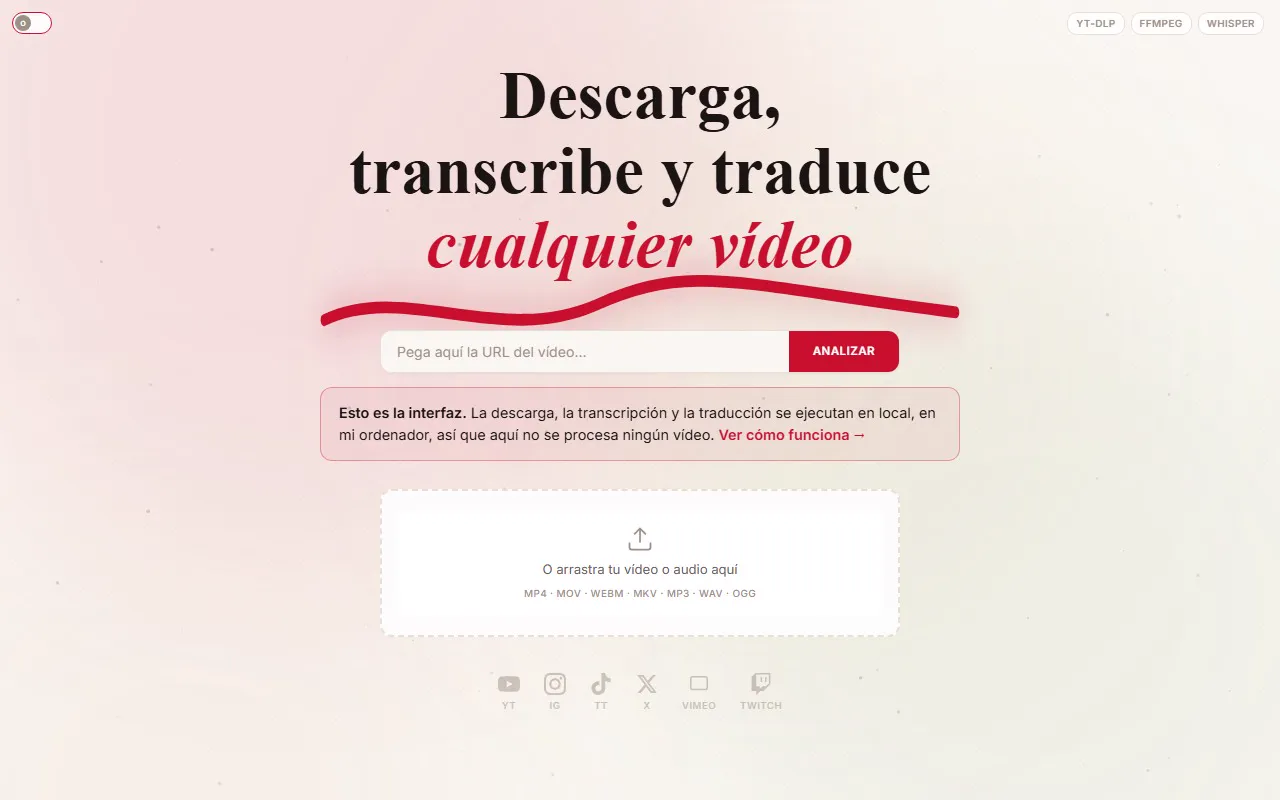
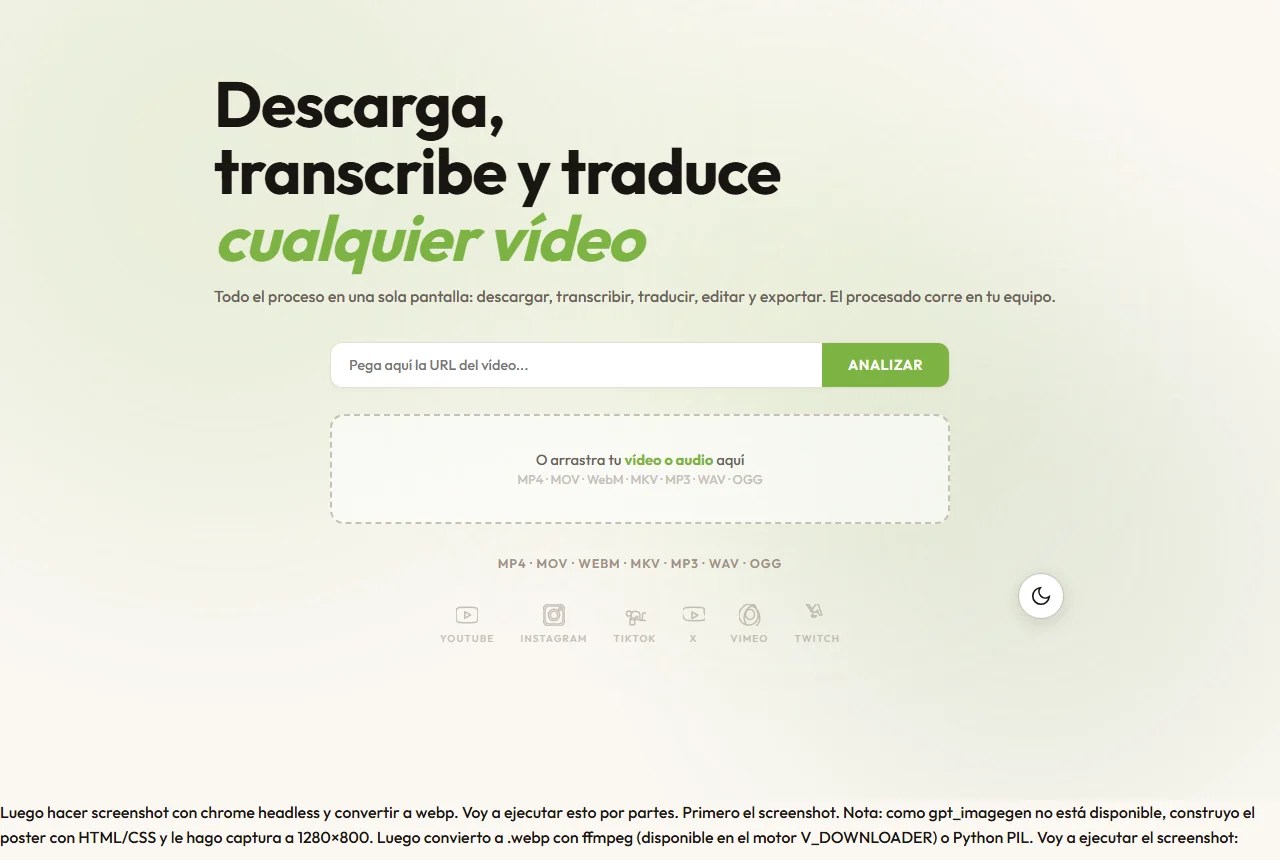
feat(V_DOWNLOADER): paleta lima y Outfit en portfolio + caso; badges con spinner/tic-cruz y auto-reintento de motor en la app
- portfolio #projects card V_DOWNLOADER: lima #7cb342, tipografía Outfit, gradiente del visual lima, data-color actualizado
- casos/v-downloader: --accent lima, Outfit, poster vdl-inicio-poster.webp regenerado (look lima), botón 'Abrir la web' en vez de 'Demo visual'
- app V_DownLoadSUB: badges de estado con spinner (cargando) / tic (ok) / cruz (fail), reintento automático cada 8s sin mencionar launch.bat, botón 'Siguiente paso'

diff --git a/projects/V_DownLoadSUB/static/script.js b/projects/V_DownLoadSUB/static/script.js
@@ -56,6 +56,9 @@ window.addEventListener("DOMContentLoaded", function () {
   } catch (e) {
     console.error("Init error:", e);
   }
+  ["badge-ytdlp","badge-ffmpeg","badge-whisper"].forEach(function(id){
+    setBadge(id, "cargando");
+  });
   showStage("stage-upload");
   document.getElementById("urlInput").addEventListener("keydown", function (e) {
     if (e.key === "Enter") fetchInfo();
@@ -112,6 +115,8 @@ var API_CANDIDATOS = (function () {
 })();
 var API_URL = API_CANDIDATOS[0];
 var SIN_SERVIDOR = true;
+var REINTENTO_MS = 8000;
+var reintentoTimer = null;
 
 function fijarControles(activos) {
   var urlInput = document.getElementById("urlInput");
@@ -127,7 +132,7 @@ function fijarControles(activos) {
   if (fetchBtn) {
     fetchBtn.disabled = !activos;
     fetchBtn.classList.toggle("demo-only", !activos);
-    fetchBtn.textContent = activos ? "Analizar" : "Demo visual";
+    fetchBtn.textContent = activos ? "Analizar" : "Siguiente paso";
     fetchBtn.title = activos ? "" : "El procesamiento no está disponible en esta página pública";
   }
   if (fileInput) fileInput.disabled = !activos;
@@ -143,7 +148,7 @@ function avisoDemo(resaltar) {
     aviso.id = "avisoDemo";
     aviso.className = "aviso-demo";
     aviso.setAttribute("role", "status");
-     aviso.innerHTML = "<strong>Motor local no conectado.</strong> Analizar enlaces y procesar archivos necesita el motor de V_DOWNLOADER (Flask + yt-dlp + FFmpeg) en tu equipo. Arranca <code>launch.bat</code> y vuelve a intentarlo." +
+     aviso.innerHTML = "<strong>Motor local no conectado.</strong> Analizar enlaces y procesar archivos necesita el motor de V_DOWNLOADER (Flask + yt-dlp + FFmpeg) en tu equipo. Hace falta el motor de V_DOWNLOADER en tu equipo. Lo intento de nuevo automáticamente cada 8 s; también puedes reintentar ahora:" +
       "<div class=\"aviso-acciones\"><button type=\"button\" class=\"aviso-btn\" id=\"reintentarMotor\">Reintentar conexión</button><a href=\"../../index.html#contact\">Pedir una demo funcional →</a></div>";
     var wrap = document.getElementById("urlWrap");
     if (wrap && wrap.parentNode) wrap.parentNode.insertBefore(aviso, wrap.nextSibling);
@@ -156,12 +161,15 @@ function marcarSinServidor() {
   SIN_SERVIDOR = true;
   fijarControles(false);
   ["badge-ytdlp","badge-ffmpeg","badge-whisper"].forEach(function(id){
-    document.querySelectorAll("#" + id).forEach(function(el){
-      el.classList.add("local");
-      el.title = "Funciona en local, en mi ordenador";
-    });
+    setBadge(id, "fail");
   });
   avisoDemo(false);
+  if (!reintentoTimer) {
+    reintentoTimer = setInterval(function () {
+      if (!SIN_SERVIDOR) { clearInterval(reintentoTimer); reintentoTimer = null; return; }
+      checkStatus();
+    }, REINTENTO_MS);
+  }
 }
 
 function marcarConMotor(status) {
@@ -180,6 +188,10 @@ function marcarConMotor(status) {
 }
 
 async function checkStatus() {
+  ["badge-ytdlp","badge-ffmpeg","badge-whisper"].forEach(function(id){
+    setBadge(id, "cargando");
+  });
+  var conectado = false;
   for (var i = 0; i < API_CANDIDATOS.length; i++) {
     try {
       var r = await fetch(API_CANDIDATOS[i] + "/api/status", { signal: AbortSignal.timeout(2500) });
@@ -187,19 +199,31 @@ async function checkStatus() {
       var s = await r.json();
       API_URL = API_CANDIDATOS[i];
       marcarConMotor(s);
+      conectado = true;
       loadDownloads();
       return;
     } catch (e) { /* siguiente candidato */ }
   }
-  marcarSinServidor();
+  if (!conectado) marcarSinServidor();
 }
 
-function setBadge(id, ok) {
+function setBadge(id, estado) {
+  // estado: "cargando" | "ok" | "fail"
   var els = document.querySelectorAll("#" + id);
   els.forEach(function (el) {
-    el.classList.toggle("ok", ok);
-    el.classList.toggle("fail", !ok);
-    el.textContent = id.replace("badge-", "") + (ok ? " ✓" : " ✗");
+    el.classList.remove("cargando", "ok", "fail");
+    el.classList.add(estado);
+    var base = id.replace("badge-", "");
+    if (estado === "cargando") {
+      el.innerHTML = '<span class="badge-spin"></span>' + base;
+      el.title = "Verificando…";
+    } else if (estado === "ok") {
+      el.textContent = base + " ✓";
+      el.title = "Disponible";
+    } else {
+      el.textContent = base + " ✗";
+      el.title = "No disponible";
+    }
   });
 }
 

diff --git a/index.html b/index.html
@@ -17,7 +17,7 @@
 <link rel="icon" type="image/svg+xml" href="./assets/favicon.svg">
 <link rel="icon" type="image/png" sizes="48x48" href="./assets/favicon-48.png">
 <link rel="preconnect" href="https://fonts.googleapis.com"><link rel="preconnect" href="https://fonts.gstatic.com" crossorigin>
-<link href="https://fonts.googleapis.com/css2?family=Bebas+Neue&family=Bruno+Ace+SC&family=Inter:wght@300;400;500;600;700;800&family=Playfair+Display:ital,wght@0,800;1,600&family=Space+Grotesk:wght@400;500;600;700&display=swap" rel="stylesheet">
+<link href="https://fonts.googleapis.com/css2?family=Bebas+Neue&family=Bruno+Ace+SC&family=Inter:wght@300;400;500;600;700;800&family=Outfit:wght@500;600;700&family=Playfair+Display:ital,wght@0,800;1,600&family=Space+Grotesk:wght@400;500;600;700&display=swap" rel="stylesheet">
 <link rel="preload" as="image" href="./assets/hero-silueta.webp" type="image/webp">
 <link rel="preload" as="image" href="./assets/hero-fondo.webp" type="image/webp">
 <style>
@@ -274,9 +274,9 @@ body.menu-open{overflow:hidden}
 .pj-ares:hover h2,.pj-ares.is-hovered h2,.pj-ares:hover .tag,.pj-ares.is-hovered .tag,.pj-ares:hover .desc,.pj-ares.is-hovered .desc{color:#86BBD8}
 .pj-ares .project-visual-inner{background:linear-gradient(135deg,#151d25,#2F4858 45%,#33658A 80%,#86BBD8)}
 
-.pj-vdownloader h2{font-family:'VDisplay','Playfair Display',serif;font-weight:400}
-.pj-vdownloader:hover h2,.pj-vdownloader.is-hovered h2,.pj-vdownloader:hover .tag,.pj-vdownloader.is-hovered .tag,.pj-vdownloader:hover .desc,.pj-vdownloader.is-hovered .desc{color:#c8102e}
-.pj-vdownloader .project-visual-inner{background:linear-gradient(135deg,#5e0b15,#c8102e 60%,#f2c4c9)}
+.pj-vdownloader h2{font-family:'Outfit',system-ui,sans-serif;font-weight:600}
+.pj-vdownloader:hover h2,.pj-vdownloader.is-hovered h2,.pj-vdownloader:hover .tag,.pj-vdownloader.is-hovered .tag,.pj-vdownloader:hover .desc,.pj-vdownloader.is-hovered .desc{color:#7cb342}
+.pj-vdownloader .project-visual-inner{background:linear-gradient(135deg,#1b2a15,#7cb342 60%,#dcf7cc)}
 
 /* ═══ CONTACT ═══ */
 .contact{padding:clamp(90px,12vw,170px) 0 clamp(60px,7vw,100px);display:grid;grid-template-columns:minmax(0,1.3fr) minmax(0,1fr);gap:clamp(36px,6vw,110px);align-items:end}
@@ -494,7 +494,7 @@ footer a{color:#111}
 
       </div>
       <div class="project-visual"><div class="project-visual-inner"><svg viewBox="0 0 24 24" fill="none" stroke="#0a0d12" stroke-width="1"><path d="M4 20h16"/><path d="M6 16l6-12 6 12"/><path d="M8 12h8"/></svg></div></div>
-    </a><a class="project-card pj-vdownloader" href="./casos/v-downloader/" data-pj="V_DOWNLOADER" data-font="VDisplay" data-color="#c8102e">
+    </a><a class="project-card pj-vdownloader" href="./casos/v-downloader/" data-pj="V_DOWNLOADER" data-font="Outfit" data-color="#7cb342">
       <div class="project-info">
         <span class="num">04</span><span class="tag">Vídeo + IA · En desarrollo</span><h2>V_DOWNLOADER</h2>
         <p class="desc">Descarga, transcribe y traduce vídeos en local a 16 idiomas. La web pública muestra la interfaz; el procesamiento no está conectado.</p>

diff --git a/casos/v-downloader/index.html b/casos/v-downloader/index.html
@@ -19,9 +19,9 @@
 <link href="https://fonts.googleapis.com/css2?family=Inter:wght@300;400;500;600&family=Space+Grotesk:wght@500;700&display=swap" rel="stylesheet">
 <link rel="stylesheet" href="../caso.css">
 <link href="https://fonts.googleapis.com/css2?family=Bebas+Neue&family=Bruno+Ace+SC&display=swap" rel="stylesheet">
-<style>@font-face{font-family:'VDisplay';src:url('../../projects/V_DownLoadSUB/static/fonts/d9ba559e4ba4.woff2') format('woff2');font-display:swap}</style>
+<link href="https://fonts.googleapis.com/css2?family=Outfit:wght@500;600;700&display=swap" rel="stylesheet">
 </head>
-<body style="--accent:#c8102e;--accent2:#5b8c3e;--accent3:#c8102e;--bg:#faf7f2;--surface:#ffffff;--ink:#1a1512;--muted:#6b6158;--faint:#e6dfd4;--on-accent:#fff;--display:'VDisplay',serif;--title:'VDisplay',serif;--h1:clamp(2.4rem,11vw,9rem)">
+<body style="--accent:#7cb342;--accent2:#5b8c3e;--accent3:#7cb342;--bg:#faf7f2;--surface:#ffffff;--ink:#1a1512;--muted:#6b6158;--faint:#e6dfd4;--on-accent:#fff;--display:'Outfit',system-ui,sans-serif;--title:'Outfit',system-ui,sans-serif;--h1:clamp(2.4rem,11vw,9rem)">
 <main>
 <div class="top"><a class="back" href="../../index.html#projects">← Volver al portfolio</a></div>
 
@@ -29,7 +29,7 @@
   <span class="tag">Vídeo + IA · En desarrollo</span>
   <h1>V_DOWNLOADER</h1>
   <p class="lead">Herramienta para <strong>descargar, transcribir y traducir vídeos</strong> con IA, con un editor de subtítulos con línea de tiempo, estilos y exportación.</p>
-  <div class="ctas"><a class="btn main" href="../../projects/V_DownLoadSUB/">Ver demo visual <span aria-hidden="true">→</span></a><a class="btn ghost" href="../../index.html#contact">Pedir una demo funcional</a></div>
+  <div class="ctas"><a class="btn main" href="../../projects/V_DownLoadSUB/">Abrir la web <span aria-hidden="true">→</span></a><a class="btn ghost" href="../../index.html#contact">Pedir una demo funcional</a></div>
   <p class="nota">La web pública muestra la interfaz, pero no procesa enlaces ni archivos. El motor de descarga y procesamiento no está conectado a este sitio.</p>
 </header>
 

diff --git a/projects/V_DownLoadSUB/static/style_v2.css b/projects/V_DownLoadSUB/static/style_v2.css
@@ -141,6 +141,10 @@ html.dark * { scrollbar-color:rgba(139,195,74,0.45) transparent; }
 }
 html.dark .badge { background:rgba(255,255,255,0.06); }
 .badge.ok { color:var(--green); border-color:var(--green); }
+.badge.fail { color:#d9442a; border-color:#d9442a; }
+.badge.cargando { color:var(--text-faint); border-color:var(--border); }
+.badge-spin { display:inline-block; width:9px; height:9px; border:2px solid currentColor; border-radius:50%; border-top-color:transparent; margin-right:6px; animation:badgeSpin .8s linear infinite; vertical-align:-1px; }
+@keyframes badgeSpin { to { transform: rotate(360deg); } }
 
 /* ── Hero / Stage 1 ────────────────────────────────────────────────────── */
 .hero-title {
